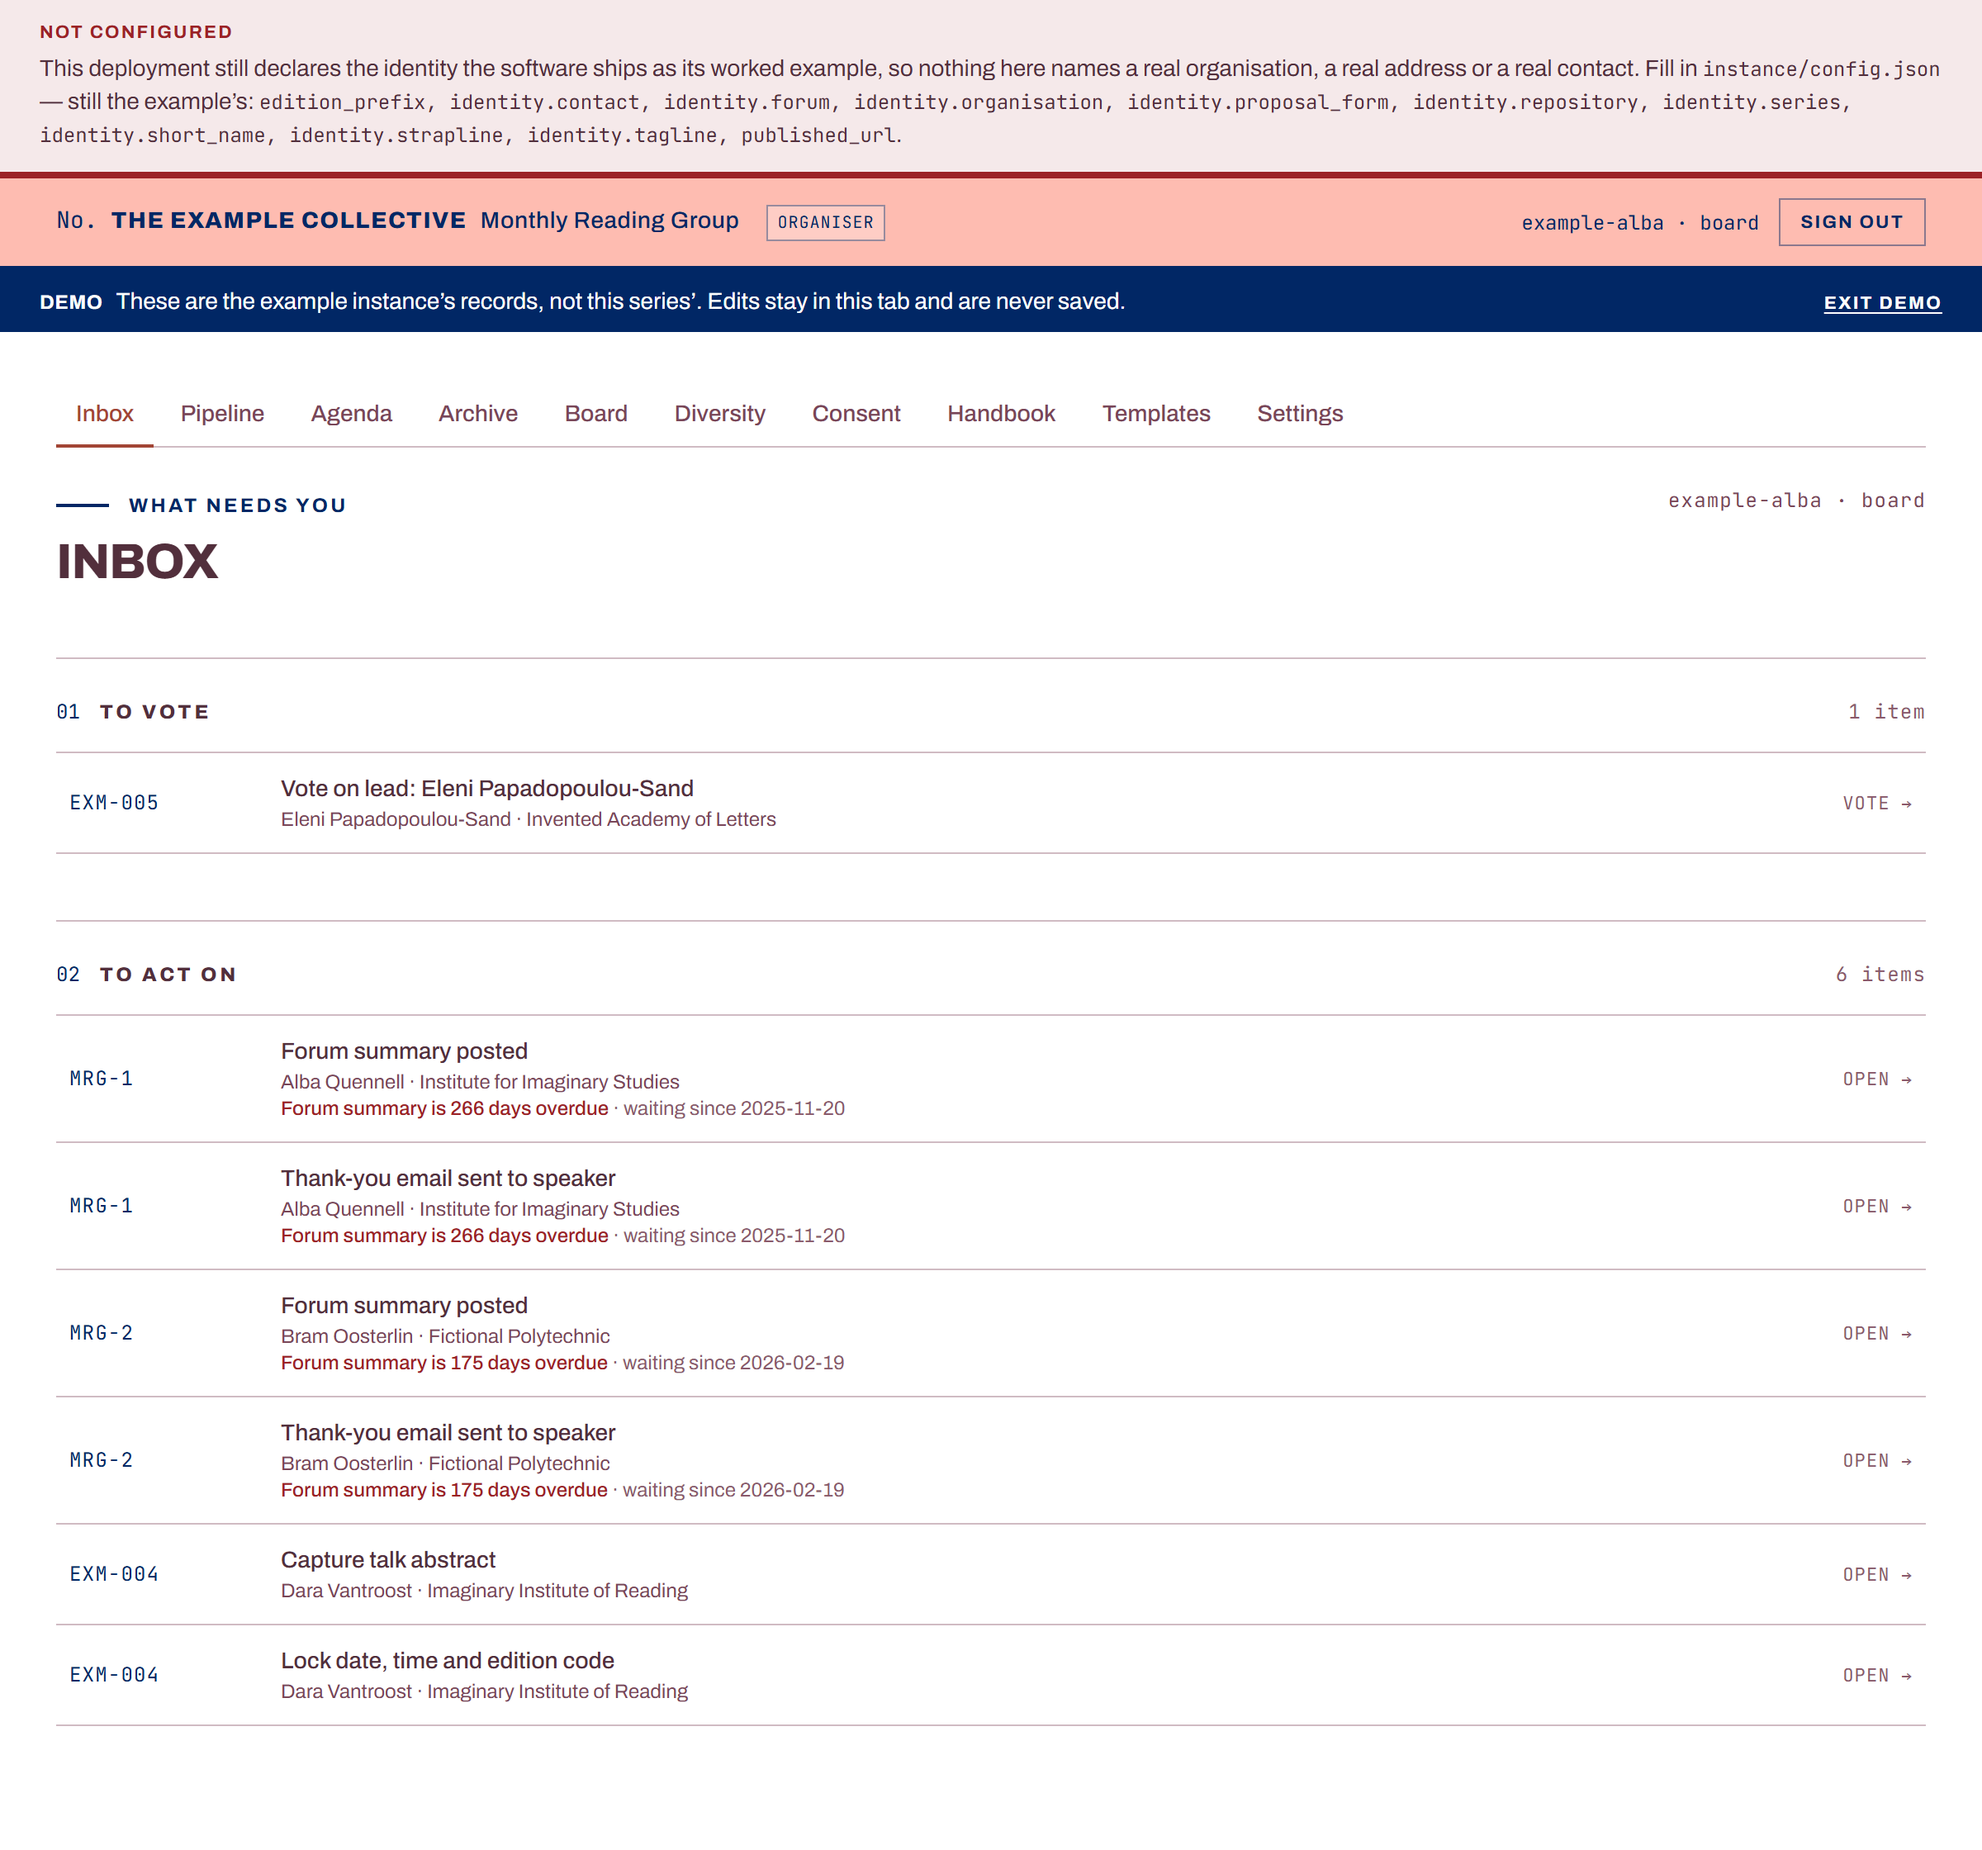
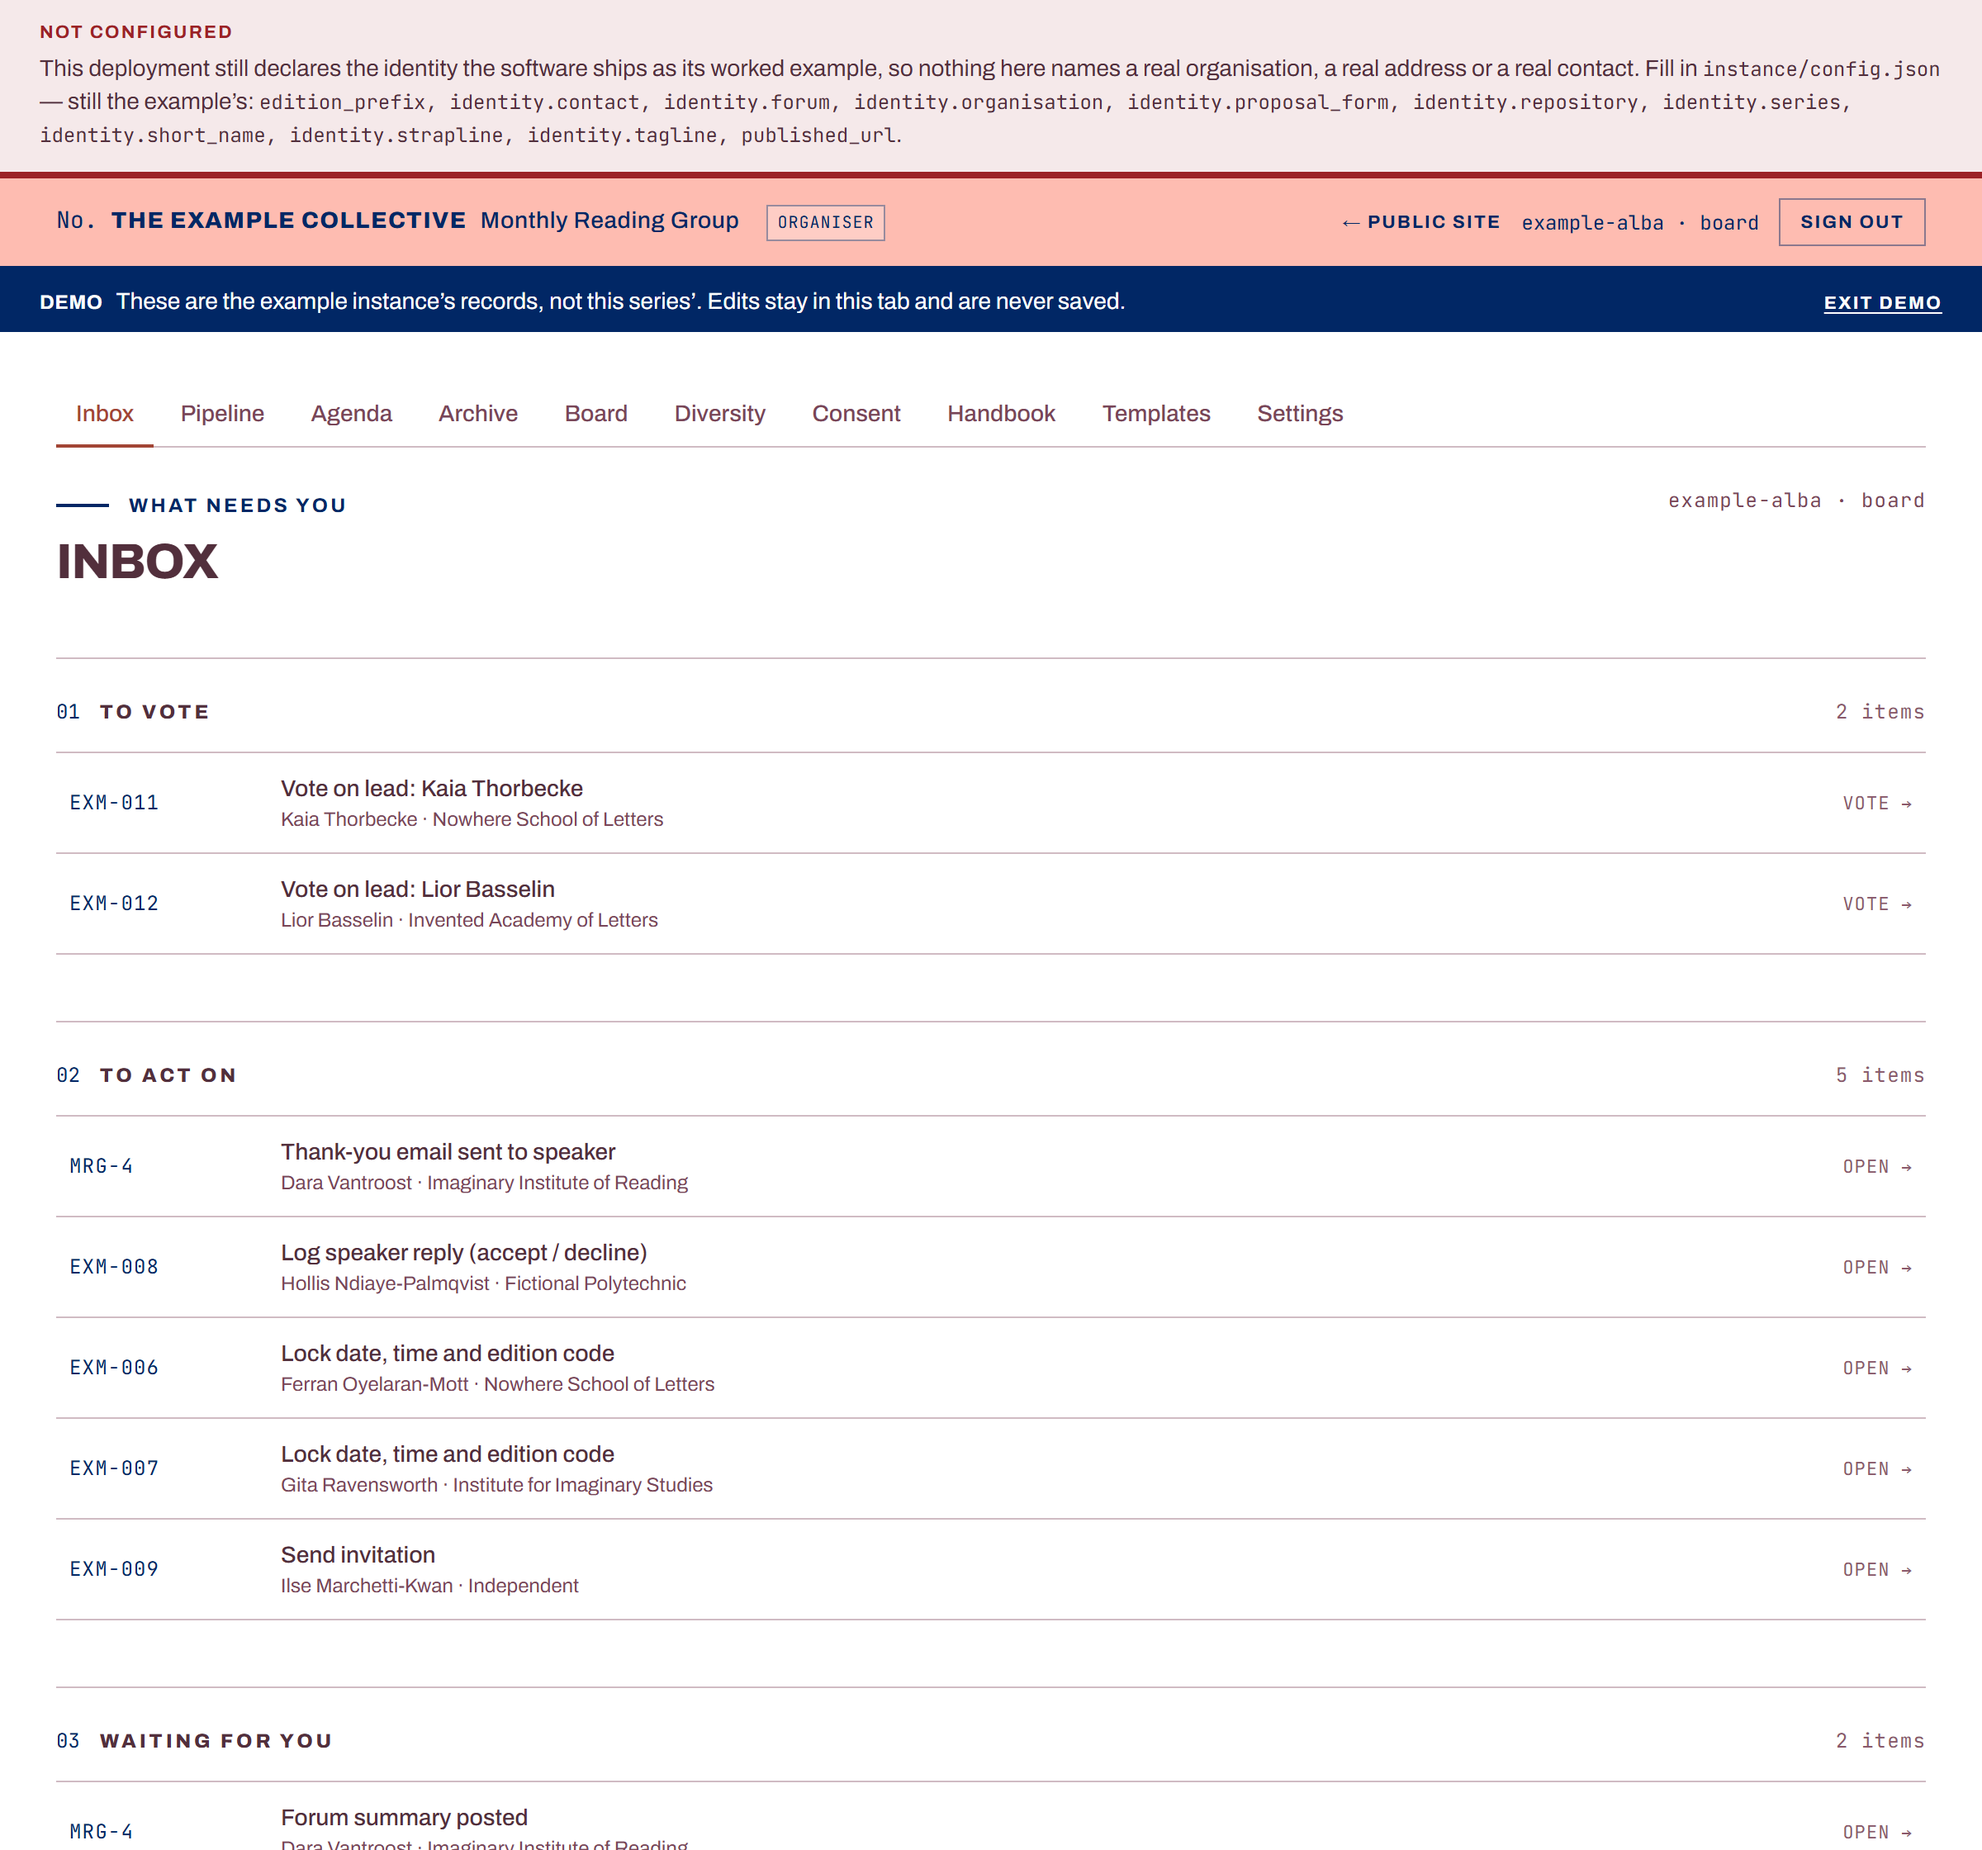
docs, assets: say that this product now hosts what it runs, and refresh the four pictures from the example instance as it stands

diff --git a/README.md b/README.md
@@ -14,7 +14,7 @@ seminars that have nobody to pay and nothing to pay them with.**
 demonstration mode: no account, no repository, the example instance's own
 invented records.
 
-![The cockpit inbox: one lead to vote on, six webinars needing an action, each with its person and institution](assets/screenshots/cockpit.png)
+![The cockpit inbox: two leads to vote on, five webinars needing an action and two lines waiting on the person signed in, each with its speaker and institution](assets/screenshots/cockpit.png)
 
 **A public event page.** One per edition, generated — nobody writes these.
 The registration form on it encrypts what a participant types before it
@@ -33,18 +33,37 @@ itself.
 
 ## Seeing it run
 
-There is nothing hosted to click. The product repository publishes no site
-of its own, deliberately, so the demonstration runs on your own machine —
-from a real build, with no account and no data of anybody's:
+The demonstration is this product built as the invented series it ships as
+its worked example, and it is the whole of one: the showcase, an event page
+with its registration form, the certificate verifier, the post-event survey
+and the cockpit — the same five surfaces a deployed instance has, with the
+same navigation between them.
+
+`.github/workflows/demonstration.yml` builds it and publishes it to this
+repository's own GitHub Pages. It builds on every push and rebuilds every
+Thursday, and it publishes nothing until the repository variable
+`CONVENER_DEMONSTRATION_PAGES` is set to `true` and Pages is pointed at the
+`gh-pages` branch — two settings no workflow can make for itself, so until
+somebody makes them there is no link here to click.
+
+Build it and serve it yourself, from a real build, with no account and no
+data of anybody's:
 
 ```bash
-cd app
-npm install
-npm run dev
+cd site && npm install && cd ../app && npm install && cd ../tools
+uv run python scripts/demonstration_build.py ../demonstration
+cd ../demonstration && python -m http.server 8731
 ```
 
-Open the address it prints, with `?demo=1` on the end. The records are the
-example instance's, edits stay in the tab, and nothing is ever saved.
+Then open <http://localhost:8731/example-showcase/> — the address the
+example instance declares, prefix and all, because a build served at a bare
+root is a different topology from the deployed one
+([D-26](docs/engineering/decisions/d-26-verify-deployed-shape.md)).
+
+The records are the example instance's. What you do to them stays in the
+tab you did it in, for as long as that tab is open, and is never sent
+anywhere: the cockpit in demonstration mode reads only from the address
+that served it and writes nothing at all.
 
 > [!WARNING]
 > **Do not fork this repository — duplicate it.**

diff --git a/assets/screenshots/README.md b/assets/screenshots/README.md
@@ -29,6 +29,20 @@ skips a `.png` for the same reason. Both scripts' own comments carry the rest of
 that reasoning, and `tools/tests/scripts/test_readme_shots.py` runs the refusal rather
 than reading it.
 
+**One day, twice pinned.** The renderer hands each page a fixed `Date`
+before anything in it runs, and this script fixes the day the example
+instance's own records are dated against
+(`tools/scripts/example_dates.py`) to the same one. Both are needed and
+they hold different halves: without the first, a day count printed on a
+screen goes up every night; without the second, the records themselves
+move by a week every seventh night, because they follow the week they are
+read in. Measured: with the day free, two runs a fortnight apart produce a
+different `event-page.png`; with it pinned, two runs produce four
+byte-identical files. The day is the one the certificate on the
+verification shot says its holder attended, read off
+`tools/tests/fixtures/certificate-verification.json` rather than written
+down anywhere.
+
 **Refresh them whenever either interface changes.** A screenshot in a README is
 a claim about what the software does, and a stale one is a false claim nothing
 else in this repository would catch.
